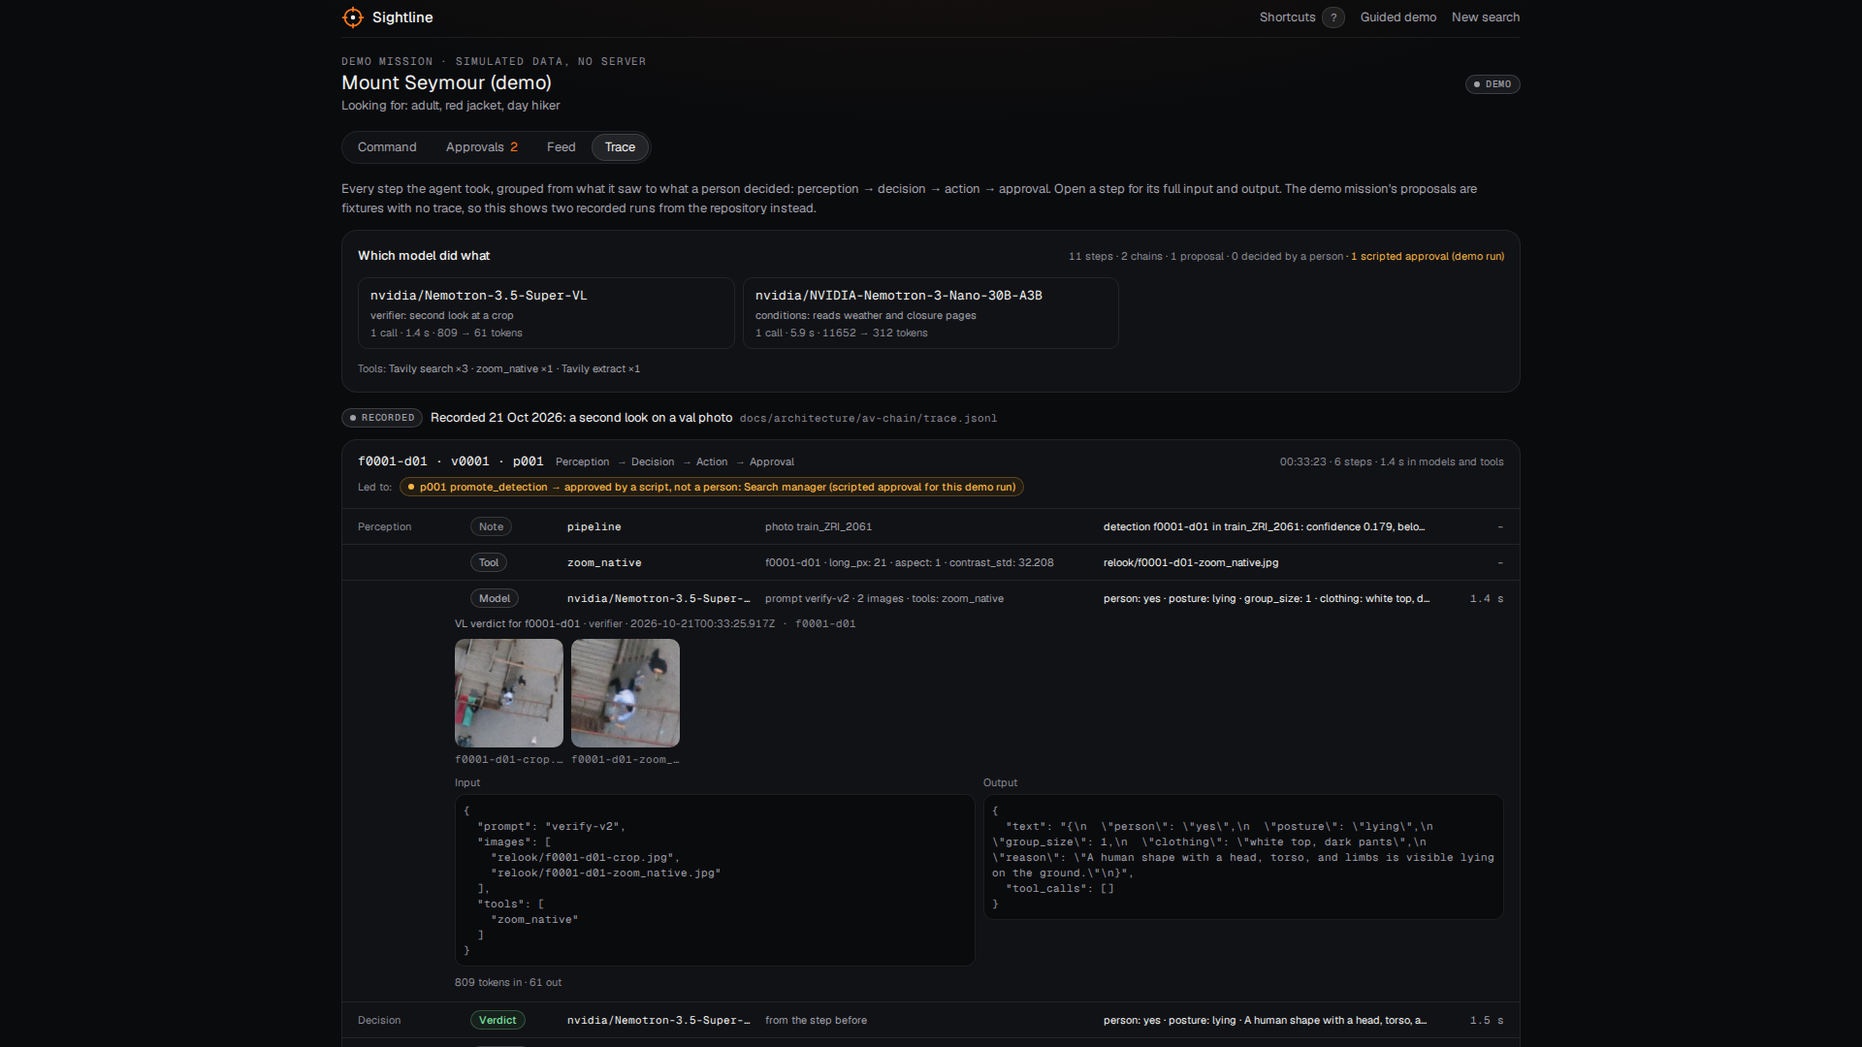
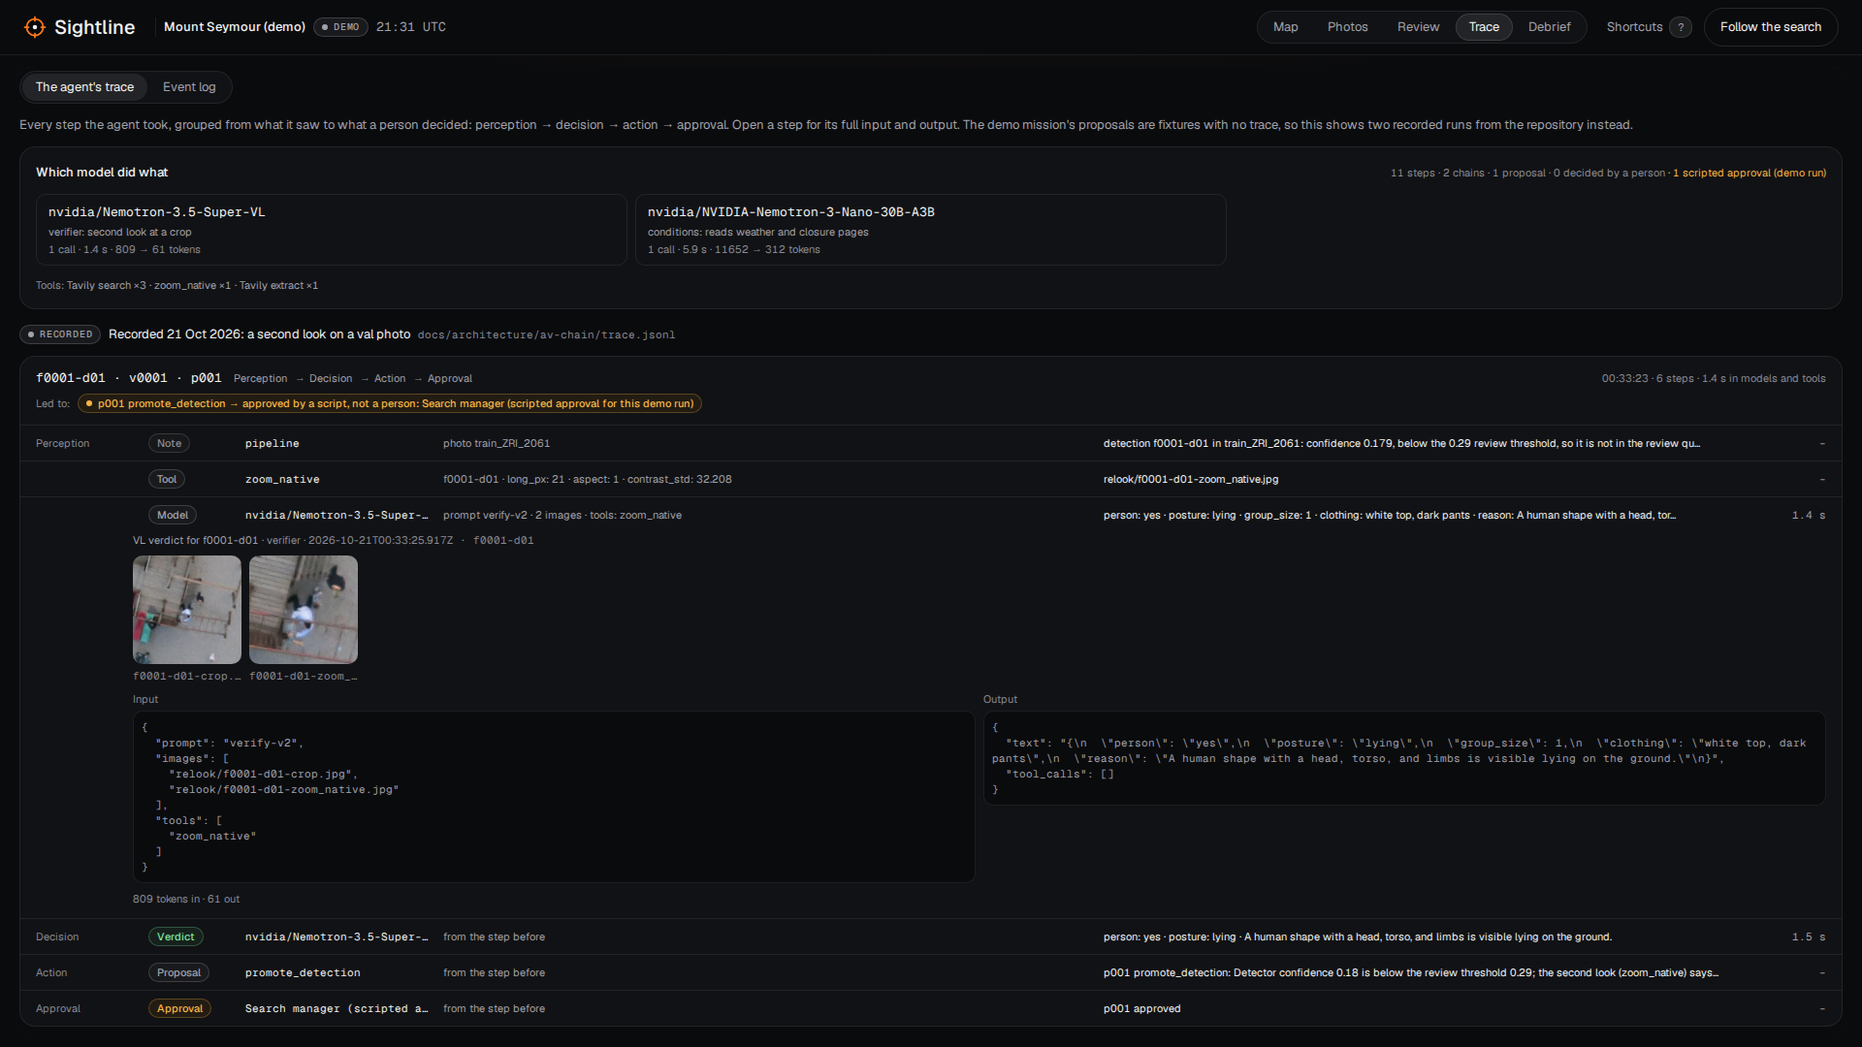
Gallery: re-render the six Devpost images on the one console
Each image opens its route directly at its checkpoint: t0 with the pitch bar, t1 photos landing, t2 the 0.18
second-look card open, the Trace view on that chain, t4 with the Conditions panel, t5 the Debrief. Captions in
both Devposts and the figures README describe the new images; the old front door and guided demo images are
removed.

diff --git a/docs/submission/figures/render_gallery.py b/docs/submission/figures/render_gallery.py
@@ -1,95 +1,102 @@
-"""Render the Devpost gallery at 1920x1080 from the demo site (http://localhost:5201) and repo images.
-See README.md here: start the site first (VITE_CACHE_DIR=demo npx vite --port 5201 from web/).
+"""Render the six Devpost gallery images (1920x1080 PNG) from the one-console site, each at its checkpoint.
 
-python render_gallery.py REPO OUTDIR   (a Python with playwright and Chromium)
+python render_gallery.py OUTDIR [SITE]   (a Python with playwright, Pillow and Chromium; SITE defaults to
+http://localhost:5191/, the dev server started as README.md here says)
+
+Each image opens its canonical address (no redirects), waits for the map, does its one step (Esc to put the
+coach mark away, a click, a key), lets the page settle 400 ms, and is saved with the cursor hidden. A PNG over
+1.5 MB is squeezed with pngquant when it is installed, else with Pillow's palette quantizer.
 """
 
+import shutil
+import subprocess
 import sys
-import tempfile
 from pathlib import Path
 
-from playwright.sync_api import sync_playwright
+from PIL import Image
+from playwright.sync_api import Page, sync_playwright
 
-repo, out = Path(sys.argv[1]), Path(sys.argv[2])
+out = Path(sys.argv[1])
+SITE = sys.argv[2] if len(sys.argv) > 2 else "http://localhost:5191/"
 out.mkdir(parents=True, exist_ok=True)
-SITE = "http://localhost:5201/"
-SEEN = "try{localStorage.setItem('sightline.consoleHint','seen')}catch(e){}"
-# lane B's real B3 card fixture (the sector of caltopo-import.png), rendered first by the dev page
-CARD = Path(tempfile.mkdtemp()) / "card-B3.png"
-
-PAGE = """<!doctype html><html><head><meta charset=utf-8><style>
-html,body{{margin:0;width:1920px;height:1080px;background:#0a0b0d;display:flex;align-items:center;justify-content:center;gap:40px;font-family:system-ui}}
-img{{max-height:1000px;max-width:{w}px;border-radius:12px;border:1px solid rgba(255,255,255,.12)}}
-</style></head><body>{imgs}</body></html>"""
+LIMIT = 1_500_000
+SETTLE = 400
+HIDE_CURSOR = "*, *::before, *::after { cursor: none !important; caret-color: transparent !important; }"
 
 
-def compose(name: str, images: list[Path], w: int) -> Path:
-    html = Path(tempfile.mkdtemp()) / f"{name}.html"
-    html.write_text(PAGE.format(w=w, imgs="".join(f'<img src="{p.as_uri()}">' for p in images)))
-    return html
+def esc(page: Page) -> None:
+    """Put the story's coach mark away; the console stays at that checkpoint's mission time and view."""
+    page.keyboard.press("Escape")
 
 
+def t2_card(page: Page) -> None:
+    esc(page)
+    page.get_by_role("button", name="Show the second look's images").click()
+    # back to the top of the queue: #1 and #2 above, #3 with its second look's images open
+    page.evaluate("() => document.querySelectorAll('.overflow-y-auto').forEach((e) => { e.scrollTop = 0; })")
+
+
+def trace_chain(page: Page) -> None:
+    page.locator("li[aria-label^=Model] button").first.click()
+
+
+def t4_conditions(page: Page) -> None:
+    esc(page)
+    page.keyboard.press("w")
+
+
+def t5_debrief(page: Page) -> None:
+    esc(page)
+    # The three numbers and "What breaks first" don't fit one 1080 px screen with "How much looking it saves"
+    # between them, so that part is left out of this frame (it is in the app, between the two).
+    page.evaluate(
+        """() => {
+          const h = [...document.querySelectorAll('section[aria-label=Debrief] h3')]
+            .find((e) => e.textContent.startsWith('How much looking'));
+          if (h) h.closest('section').style.display = 'none';
+          const glance = [...document.querySelectorAll('section[aria-label=Debrief] h3')]
+            .find((e) => e.textContent.startsWith('At a glance'));
+          glance.nextElementSibling.scrollIntoView({ block: 'start' });  // "The three numbers that matter…"
+        }"""
+    )
+
+
+# (file, address, step after load)
 JOBS = [
-    # (file, url or composed html, wait ms, js after load)
-    ("command-view-detections-task-board-approval-inbox.png", SITE + "#m/demo/command", 6000, None),
-    (
-        "trace-which-model-did-what-second-look.png",
-        SITE + "#m/demo/trace",
-        3000,
-        "document.querySelectorAll('li[aria-label^=Model] button')[0].click(); window.scrollTo(0, 240)",
-    ),
-    (
-        "approval-inbox-every-proposal-carries-its-reason.png",
-        SITE + "#m/demo/approvals",
-        3000,
-        None,
-    ),
-    (
-        "conditions-tavily-quotes-sources-flyability.png",
-        SITE + "#m/demo/command",
-        6000,
-        "window.dispatchEvent(new KeyboardEvent('keydown', {key: 'w'}))",
-    ),
-    ("front-door-the-product-first.png", SITE + "#", 2500, None),
-    ("results-detector-vs-human-baseline.png", SITE + "#results", 6000, None),
-    (
-        "assignment-card-gpx-kml-opened-in-caltopo.png",
-        compose(
-            "card",
-            [
-                CARD,
-                repo / "docs/architecture/screens/caltopo-import.png",
-            ],
-            900,
-        ).as_uri(),
-        800,
-        None,
-    ),
-    (
-        "architecture-photos-cv2dnn-map-agent-approval-on-aws.png",
-        compose("arch", [repo / "docs/architecture/live.png"], 1840).as_uri(),
-        800,
-        None,
-    ),
+    ("console-t0-the-call-pitch-bar.png", "#m/demo?t=0", None),
+    ("photos-land-t1-each-photo-ranked-and-placed.png", "#m/demo?t=1", esc),
+    ("second-look-t2-a-018-candidate-opencv5-zoom-nemotron-vl.png", "#m/demo?t=2", t2_card),
+    ("trace-which-model-did-what-second-look.png", "#m/demo/trace?t=2", trace_chain),
+    ("run-t4-fleet-flying-b4-pod-60-conditions.png", "#m/demo?t=4", t4_conditions),
+    ("debrief-t5-three-numbers-what-breaks-first.png", "#m/demo?t=5", t5_debrief),
 ]
 
+
+def squeeze(path: Path) -> None:
+    if path.stat().st_size <= LIMIT:
+        return
+    if shutil.which("pngquant"):
+        subprocess.run(["pngquant", "--force", "--skip-if-larger", "--quality=70-95", "--output", str(path), str(path)], check=False)
+    if path.stat().st_size > LIMIT:
+        Image.open(path).convert("RGB").quantize(colors=256, method=Image.Quantize.MEDIANCUT, dither=Image.Dither.NONE).save(path, optimize=True)
+
+
 with sync_playwright() as p:
-    b = p.chromium.launch()
-    card = b.new_page(viewport={"width": 1000, "height": 900})
-    card.goto(SITE + "command.html?card=B3")
-    card.wait_for_timeout(2000)
-    card.screenshot(path=str(CARD), full_page=True)
-    card.close()
-    for name, url, wait, js in JOBS:
-        ctx = b.new_context(viewport={"width": 1920, "height": 1080}, device_scale_factor=1)
-        ctx.add_init_script(SEEN)
+    browser = p.chromium.launch()
+    for name, address, step in JOBS:
+        ctx = browser.new_context(viewport={"width": 1920, "height": 1080}, device_scale_factor=1)
         page = ctx.new_page()
-        page.goto(url)
-        page.wait_for_timeout(wait)
-        if js:
-            page.evaluate(js)
-            page.wait_for_timeout(1000)
+        page.goto(SITE + address)
+        page.add_style_tag(content=HIDE_CURSOR)
+        page.wait_for_selector(".maplibregl-canvas", state="attached", timeout=15000)
+        page.wait_for_timeout(4000)  # tiles, the photos and the fixtures
+        page.mouse.move(1919, 1079)  # no hover state anywhere
+        if step:
+            step(page)
+            page.mouse.move(1919, 1079)
+        page.wait_for_timeout(SETTLE)
         page.screenshot(path=str(out / name))
         ctx.close()
-        print(name)
-    b.close()
+        squeeze(out / name)
+        print(f"{name}  {(out / name).stat().st_size / 1e6:.2f} MB")
+    browser.close()

diff --git a/docs/submission/figures/README.md b/docs/submission/figures/README.md
@@ -1,26 +1,29 @@
 # Devpost gallery images
 
-1920×1080 PNGs (all under 500 KB). The captions are in the gallery lists of `../DEVPOST_OPENCV.md` (O1–O6) and
-`../DEVPOST_NEBIUS.md` (N1–N6), and they describe these files.
+1920×1080 PNGs (all under 1 MB). The captions are in the gallery lists of `../DEVPOST_OPENCV.md` (O1–O6) and
+`../DEVPOST_NEBIUS.md` (N1–N6), and they describe these files. Both galleries are the same six images, the demo
+mission's story on the one-console site; the captions differ in what they point at (OpenCV 5, or the NVIDIA
+models on Token Factory).
 
-| File | Devpost caption | Source |
+| File | Devpost caption | Source (`render_gallery.py`) |
 |---|---|---|
-| `command-view-detections-task-board-approval-inbox.png` | O1, N1: the console on the demo mission | `#m/demo/command` (now redirects to `#m/demo/map`), first-visit hint dismissed |
-| `trace-which-model-did-what-second-look.png` | O2, N2: the crop and native zoom Nemotron VL answered from, with its trace line | `#m/demo/trace`, model step opened (the recorded av-chain run) |
-| `approval-inbox-every-proposal-carries-its-reason.png` | O3: every proposal carries its reason | `#m/demo/approvals` (now redirects to `#m/demo/map`; the inbox is its right rail) |
-| `radio-desk-clue-read-back-before-it-is-logged.png` | N3: the radio desk (a clue, its readback, the clue on the map) | a live local mission, below |
-| `assignment-card-gpx-kml-opened-in-caltopo.png` | O4: assignment card for B3, and the same sector's GPX in CalTopo | lane B's real B3 card fixture (`web/command.html?card=B3`) + `docs/architecture/screens/caltopo-import.png` (B3) |
-| `architecture-photos-cv2dnn-map-agent-approval-on-aws.png` | O5, N5: the live architecture | `docs/architecture/live.png` |
-| `results-detector-vs-human-baseline.png` | O6, N6: detector vs people by eye; the other numbers are in the report's tables | the old guided demo's Results step, `#results` (now redirects to the Debrief, `#m/demo?t=5`) |
-| `clue-retasks-the-nearest-drone.png` | N4: a team's clue re-tasks a drone (Drone 1's cancelled leg L001 over B2 fading out, its new leg L004 over C3) | `#m/demo/command` (now `#m/demo/map`), 100 ms after the map first draws (`render_retask.py`) |
-| `conditions-tavily-quotes-sources-flyability.png` | extra (Tavily): each condition with its quote and page, the model, the flyability gate | `#m/demo/command` (now `#m/demo/map/conditions`), then `W` |
-| `front-door-the-product-first.png` | extra (cover candidate): the old front door; its words are now the About sheet (`#about`), and `#` opens the console at t0 | `#` before #171 |
+| `console-t0-the-call-pitch-bar.png` | O1, N1: the console at 20:35, the call, with the pitch bar | `#m/demo?t=0` (the landing; t0 has no coach mark) |
+| `photos-land-t1-each-photo-ranked-and-placed.png` | O2, N2: 21:18, the 500 photos land and are placed; 14 candidates | `#m/demo?t=1`, then Esc (the coach mark away; the Photos rail stays) |
+| `second-look-t2-a-018-candidate-opencv5-zoom-nemotron-vl.png` | O3, N3: 21:31, the 0.18 candidate's card with its OpenCV 5 and Nemotron VL chips, the zoom open | `#m/demo?t=2`, Esc, then "Show the second look's images" |
+| `trace-which-model-did-what-second-look.png` | O4, N4: the Trace view on that chain (the recorded av-chain run), the model step open | `#m/demo/trace?t=2`, then the Model step opened |
+| `run-t4-fleet-flying-b4-pod-60-conditions.png` | O5, N5: 22:00, the fleet flying, B4 at POD 60 %, the Conditions panel open | `#m/demo?t=4`, Esc, then `W` |
+| `debrief-t5-three-numbers-what-breaks-first.png` | O6, N6: the Debrief's three numbers and what breaks first | `#m/demo?t=5`, Esc; "How much looking it saves" (between the two in the app) is left out of this frame so both fit |
 
-## Still open
+Extras, not in either gallery now (taken before the one console, #171):
 
-- **N5:** `live.png` doesn't draw the speech models or the Serverless Job. The caption says where they run instead.
+| File | What | Source |
+|---|---|---|
+| `radio-desk-clue-read-back-before-it-is-logged.png` | the radio desk on a live local mission (a clue, its readback, the clue on the map) | a live local mission, below |
+| `clue-retasks-the-nearest-drone.png` | a team's clue re-tasks a drone (Drone 1's cancelled leg L001 over B2 fading out, its new leg L004 over C3) | `#m/demo/command` (now `#m/demo/map`), 100 ms after the map first draws (`render_retask.py`) |
+| `assignment-card-gpx-kml-opened-in-caltopo.png` | the assignment card for B3, and the same sector's GPX in CalTopo | lane B's B3 card fixture + `docs/architecture/screens/caltopo-import.png` (`git show 1fc62da:docs/submission/figures/render_gallery.py`) |
+| `architecture-photos-cv2dnn-map-agent-approval-on-aws.png` | the live architecture | `docs/architecture/live.png`, framed at 1920×1080 (same script as above) |
 
-## The radio desk capture (N3)
+## The radio desk capture (extra)
 
 Taken on 22 Oct 2026 against a local server: `serve --radio text --backend fake`, with the Token Factory and
 Tavily keys loaded from `.env` into the server's environment only. Team Two had a position, and its turn was
@@ -38,11 +41,17 @@ To retake it:
 
 The desk's log lives in the page, so take the screenshot before reloading.
 
-## Retake the rest
+## Retake the gallery
 
 ```bash
 ln -s /path/to/web/public/cache/demo web/public/cache/demo   # the demo cache (not committed)
-cd web && VITE_CACHE_DIR=demo npx vite --port 5201 --strictPort &   # note the PID; kill it by PID after
-python docs/submission/figures/render_gallery.py . docs/submission/figures   # a Python with playwright + Chromium
-python docs/submission/figures/render_retask.py docs/submission/figures       # N4, under a fake clock (the re-task fades in 1.5 s)
+cd web && VITE_CACHE_DIR=demo npx vite --port 5191 --strictPort &   # note the PID; kill it by PID after
+python docs/submission/figures/render_gallery.py docs/submission/figures   # a Python with playwright, Pillow + Chromium
 ```
+
+Each frame waits for the map and 4 s more, does its one step, settles 400 ms and is saved with the cursor hidden;
+a PNG over 1.5 MB is squeezed (pngquant if installed, else Pillow's 256-colour palette). Look at each one before
+committing it.
+
+`render_retask.py` (the re-task extra) still points at the old port 5201 and the old `#m/demo/command`, which
+redirects to `#m/demo/map`.

diff --git a/docs/submission/DEVPOST_NEBIUS.md b/docs/submission/DEVPOST_NEBIUS.md
@@ -23,12 +23,12 @@ Production: burn in captions; name Nebius and NVIDIA with audio; mark "Not for K
 
 **Gallery (in this order):**
 
-1. *The console on the demo mission (DEMO chip, simulated data): detections on the probability map, the task board, the approval inbox.* (`docs/submission/figures/command-view-detections-task-board-approval-inbox.png`)
-2. *Which NVIDIA model did what: the Trace view's model strip, and the re-look crop and native zoom Nemotron VL answered from, with its trace line.* (`docs/submission/figures/trace-which-model-did-what-second-look.png`)
-3. *The radio desk on a live local mission: Team Two reports a backpack (typed here; in voice mode Parakeet transcribes it and Magpie speaks the replies), Nemotron 3 Super on Token Factory parses it, Sightline reads the clue back, and logs it on the map only after "affirmative".* (`docs/submission/figures/radio-desk-clue-read-back-before-it-is-logged.png`)
-4. *A team's clue re-tasks a simulated drone: after Team Two's radio clue (c003, a water bottle by the creek), Drone 1 is re-tasked to the clue's sector; its old leg over B2 fades out on the map as it turns to its new leg over C3 (DEMO: a recorded run of the fleet sim, with the re-task scripted).* (`docs/submission/figures/clue-retasks-the-nearest-drone.png`)
-5. *The live architecture: photos → `cv2.dnn` on AWS → map → agent with Nemotron on Token Factory → human approval, and Tavily for conditions. Not drawn: the speech models (Parakeet, Magpie) run on the GPU desktop, and batch detection runs as a Nebius Serverless Job.* (`docs/submission/figures/architecture-photos-cv2dnn-map-agent-approval-on-aws.png`)
-6. *Results in the app: the detector vs people reviewing by eye. The fleet simulation and radio latency numbers are in the report's tables.* (`docs/submission/figures/results-detector-vs-human-baseline.png`)
+1. *The console on the demo mission at 20:35, the call (DEMO chip, simulated data): the pitch bar, the search area around the last known point on the probability map, four teams on standby, and the mission timeline along the map.* (`docs/submission/figures/console-t0-the-call-pitch-bar.png`)
+2. *21:18, photos land: one survey flight's 500 photos (real HERIDAL photos on a simulated flight path), each ranked by the detector and placed on the probability map as it lands; 14 candidates for a person to confirm.* (`docs/submission/figures/photos-land-t1-each-photo-ranked-and-placed.png`)
+3. *21:31, confirm: a person answers every candidate. The third scored only 0.18, below the review threshold; Nemotron 3.5 Super VL on Token Factory looked again at an OpenCV zoom and answered "likely a person, lying down", so the agent promoted it. The zoom is open on the card (a recorded second look on another HERIDAL photo, labelled so).* (`docs/submission/figures/second-look-t2-a-018-candidate-opencv5-zoom-nemotron-vl.png`)
+4. *Which NVIDIA model did what: the Trace view's model strip (Nemotron 3.5 Super VL for the second look, Nemotron 3 Nano for the conditions pages) and that chain step by step: the crop and the native zoom Nemotron VL answered from, its verdict, the proposal and its approval (scripted in this recorded run, and the trace says so).* (`docs/submission/figures/trace-which-model-did-what-second-look.png`)
+5. *22:00, the run: two simulated drones fly their legs, two teams are searching, B4 is searched at POD 60 % (lowered, never ruled out). The Conditions panel (W) shows a recorded live lookup: Tavily searched and extracted the pages, Nemotron 3 Nano read them, each value carries its quote and page, and the flyability gate says not flyable after civil twilight.* (`docs/submission/figures/run-t4-fleet-flying-b4-pod-60-conditions.png`)
+6. *The Debrief: the three numbers (people found 90 % vs 68 % by eye; 0.25 s vs 33 s per full photo; ground to search, 3.0 ha vs 4.4 ha for a naive map, simulated) and what breaks first. The fleet simulation and radio latency numbers are in the report's tables.* (`docs/submission/figures/debrief-t5-three-numbers-what-breaks-first.png`)
 
 ---
 

diff --git a/docs/submission/DEVPOST_OPENCV.md b/docs/submission/DEVPOST_OPENCV.md
@@ -27,12 +27,12 @@ Production: burn in captions; 1080p master; YouTube "Not for Kids"; no copyright
 
 **Gallery (in this order):**
 
-1. *The console on the demo mission (DEMO chip, simulated data): detections on the map, task board, approval inbox.* (`docs/submission/figures/command-view-detections-task-board-approval-inbox.png`)
-2. *An OpenCV 5 result changes the next decision: the blurred review crop of a 0.18 detection, and the native-resolution zoom Nemotron VL answered "yes, lying" from, in the Trace view.* (`docs/submission/figures/trace-which-model-did-what-second-look.png`)
-3. *The approval inbox: every proposal carries its reason, and nothing happens until a person approves it.* (`docs/submission/figures/approval-inbox-every-proposal-carries-its-reason.png`)
-4. *A printable assignment card for Team Two's sector B3, and the same sector's GPX opened in CalTopo.* (`docs/submission/figures/assignment-card-gpx-kml-opened-in-caltopo.png`)
-5. *Architecture: photos → OpenCV 5 `cv2.dnn` → map → agent and re-look tools → human approval → drone, team or radio, on AWS.* (`docs/submission/figures/architecture-photos-cv2dnn-map-agent-approval-on-aws.png`)
-6. *Results in the app: the detector vs people reviewing by eye (SAR-APD scoring), time per photo, ground left to search. The `cv2.dnn` vs PyTorch parity and the other numbers are in the report's tables (§3.1, §3.9).* (`docs/submission/figures/results-detector-vs-human-baseline.png`)
+1. *The console on the demo mission at 20:35, the call (DEMO chip, simulated data): the pitch bar, the search area around the last known point on the probability map, four teams on standby, and the mission timeline along the map.* (`docs/submission/figures/console-t0-the-call-pitch-bar.png`)
+2. *21:18, photos land: one survey flight's 500 photos (real HERIDAL photos on a simulated flight path), each ranked by the detector and placed on the map as it lands; 14 candidates, and the map now says where the person could still be.* (`docs/submission/figures/photos-land-t1-each-photo-ranked-and-placed.png`)
+3. *21:31, confirm: a person answers every candidate. The third scored only 0.18, below the 0.29 review threshold; the agent promoted it after a second look: an OpenCV 5 native-resolution zoom, and Nemotron VL's verdict "likely a person, lying down". The zoom is open on the card (a recorded second look on another HERIDAL photo, labelled so).* (`docs/submission/figures/second-look-t2-a-018-candidate-opencv5-zoom-nemotron-vl.png`)
+4. *The Trace view on that chain: the 0.179 detection, the OpenCV 5 `zoom_native` tool, the review crop and the zoom Nemotron VL answered "person: yes, lying" from, then the proposal and its approval (scripted in this recorded run, and the trace says so).* (`docs/submission/figures/trace-which-model-did-what-second-look.png`)
+5. *22:00, the run: two simulated drones fly their legs, two teams are searching, B4 is searched at POD 60 % (lowered, never ruled out) and C4 at POD 40 %. The Conditions panel (W) shows a recorded live lookup: each value with its quote and page, and the flyability gate.* (`docs/submission/figures/run-t4-fleet-flying-b4-pod-60-conditions.png`)
+6. *The Debrief: the three numbers (people found 90 % vs 68 % by eye, SAR-APD scoring; 0.25 s vs 33 s per full photo; ground to search, 3.0 ha vs 4.4 ha for a naive map, simulated) and what breaks first, in the report's words. The `cv2.dnn` vs PyTorch parity and the other numbers are in the report's tables (§3.1, §3.9).* (`docs/submission/figures/debrief-t5-three-numbers-what-breaks-first.png`)
 
 ---
 
